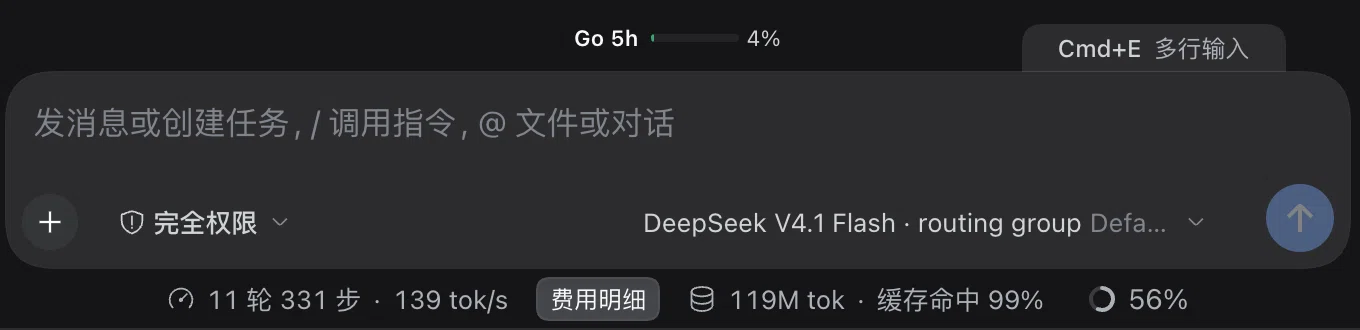
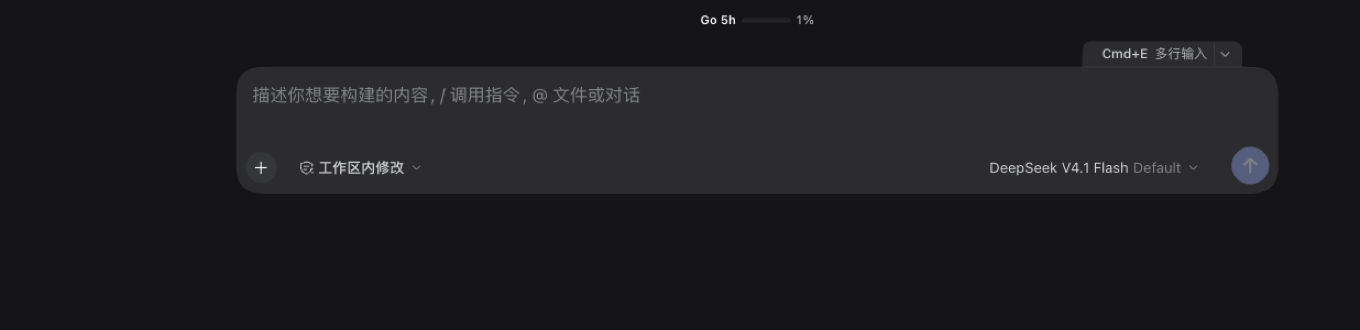
docs(assets): refresh the 0.2.0 screenshots
- single, multiline, collapsed, history browsing, and Settings page
- screenshots.json lists all five; README shows them
- captured from the live Web GUI through ego lite

diff --git a/docs/RELEASE-CHECKLIST-0.2.0.md b/docs/RELEASE-CHECKLIST-0.2.0.md
@@ -34,7 +34,7 @@
 - [x] 0.1.1 回归：多行 Enter/Shift+Enter、`Cmd+Enter`、撤销、模式持久化、dock 卡片不被遮挡、hero 状态
 - [ ] 队列 / steer 消息「发完立即 `↑` 可见」（实现已改，未单独造忙碌场景复核）
 - [ ] Console 无 `dsh-multiline-input` 报错 / 禁用启用后历史仍在（子龙未专门查看，属可选）
-- [ ] 市场截图更新（0.2.0 外观有变化：细线、历史、设置页）
+- [x] 截图：重截 5 张（单行 / 多行 / 收起细线 / 历史浏览 / 设置页），更新 `screenshots.json`、README 与官网 `assets/shots/`；用 ego lite 打开真实 Web GUI 拍摄并恢复默认外观
 
 ## 4. 发布结果（2026-10-30）
 

diff --git a/README.md b/README.md
@@ -18,6 +18,12 @@
 
 ![多行模式：输入框变高，tab 显示 Shift+Enter 提交 · Cmd+E 单行输入](assets/screenshot-2-multiline.png)
 
+![收起后输入区上沿的细线](assets/screenshot-3-collapsed.png)
+
+![↑/↓ 浏览输入历史，tab 显示「历史 2/3」](assets/screenshot-4-history.png)
+
+![设置（Cmd+,）→ 多行输入](assets/screenshot-5-settings.png)
+
 ## 安装
 
 ```sh
